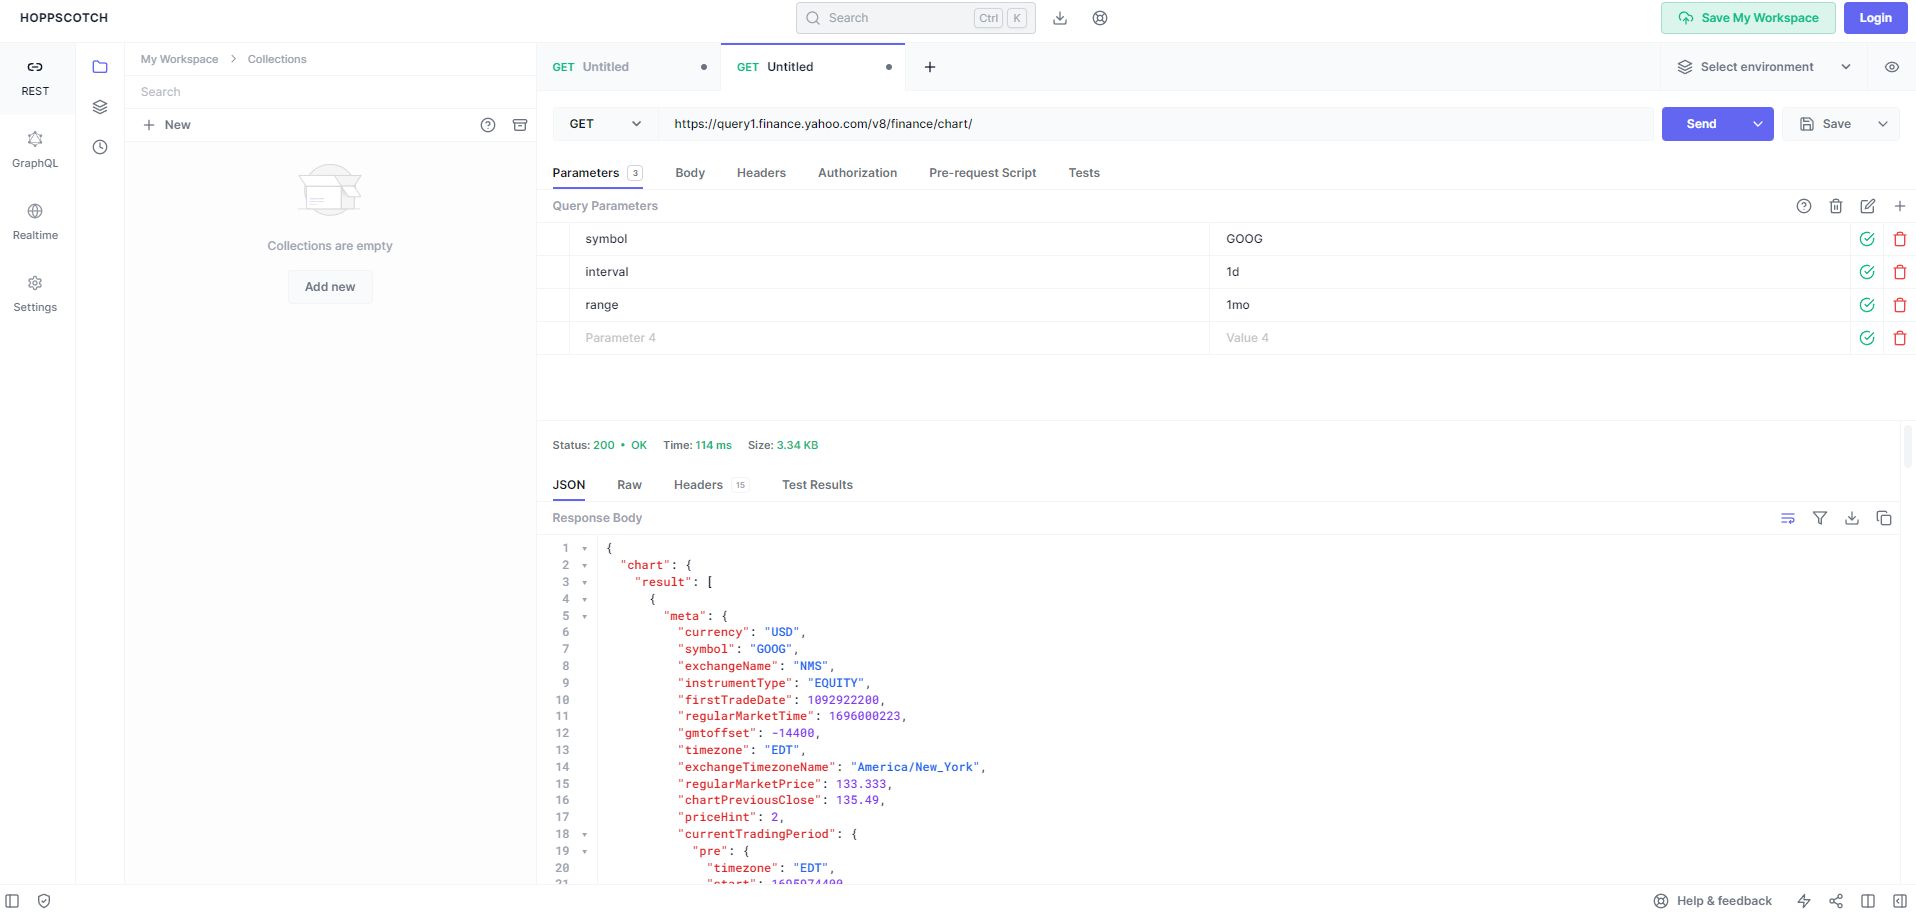
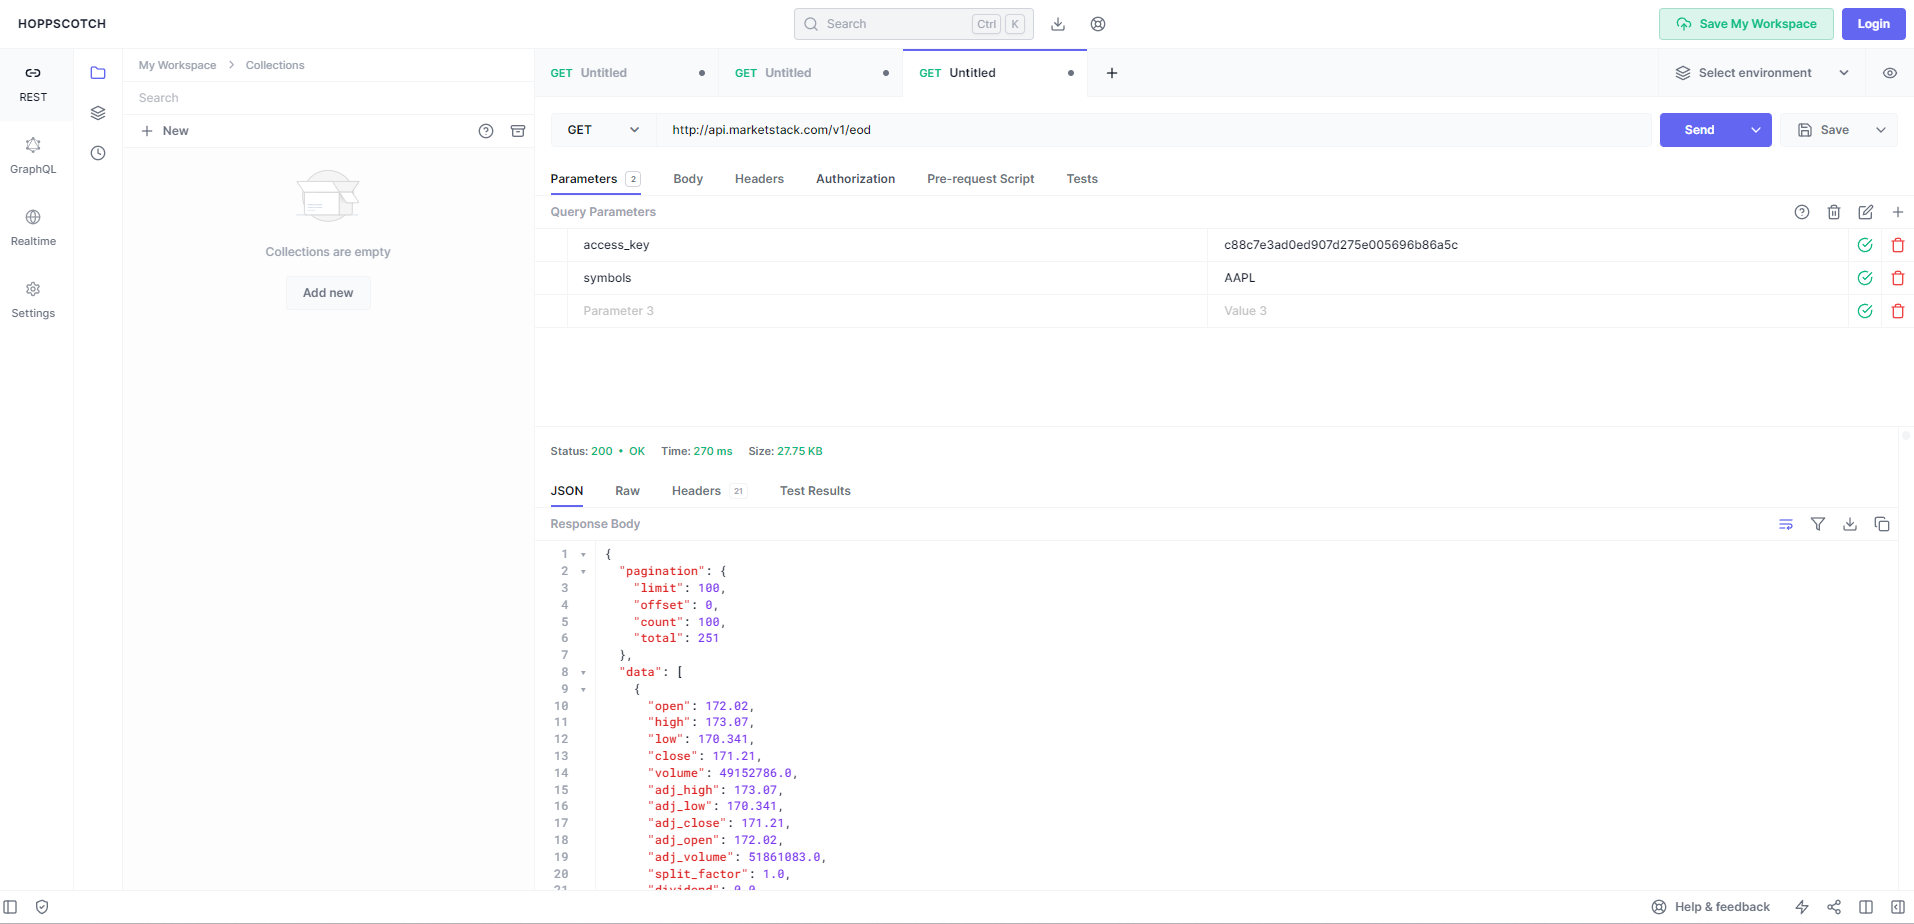
Redid the submission requirments for the new api

diff --git a/restclientexample/src/main/java/api/MarketStackAPI.java b/restclientexample/src/main/java/api/MarketStackAPI.java
@@ -1,0 +1,46 @@
+package api;
+
+import java.io.BufferedReader;
+import java.io.IOException;
+import java.io.InputStreamReader;
+import java.net.HttpURLConnection;
+import java.net.URL;
+
+public class MarketStackAPI {
+
+    public static void main(String[] args) {
+        String apiKey = System.getenv("API_KEY");
+        String symbol = "AAPL";
+
+        try {
+            URL url = new URL("http://api.marketstack.com/v1/eod" +
+                    "?access_key=" + apiKey +
+                    "&symbols=" + symbol);
+
+            HttpURLConnection connection = (HttpURLConnection) url.openConnection();
+            connection.setRequestMethod("GET");
+
+            int responseCode = connection.getResponseCode();
+
+            if (responseCode == HttpURLConnection.HTTP_OK) {
+                BufferedReader reader = new BufferedReader(new InputStreamReader(connection.getInputStream()));
+                String line;
+                StringBuilder response = new StringBuilder();
+
+                while ((line = reader.readLine()) != null) {
+                    response.append(line);
+                }
+                reader.close();
+
+                System.out.println("API Response:");
+                System.out.println(response.toString());
+            } else {
+                System.out.println("API request failed with response code: " + responseCode);
+            }
+
+            connection.disconnect();
+        } catch (IOException e) {
+            e.printStackTrace();
+        }
+    }
+}

diff --git a/restclientexample/src/main/java/api/api/MarketStackAPI.java b/restclientexample/src/main/java/api/api/MarketStackAPI.java
@@ -1,0 +1,46 @@
+package api;
+
+import java.io.BufferedReader;
+import java.io.IOException;
+import java.io.InputStreamReader;
+import java.net.HttpURLConnection;
+import java.net.URL;
+
+public class MarketStackAPI {
+
+    public static void main(String[] args) {
+        String apiKey = System.getenv("API_KEY");
+        String symbol = "AAPL";
+
+        try {
+            URL url = new URL("http://api.marketstack.com/v1/eod" +
+                    "?access_key=" + apiKey +
+                    "&symbols=" + symbol);
+
+            HttpURLConnection connection = (HttpURLConnection) url.openConnection();
+            connection.setRequestMethod("GET");
+
+            int responseCode = connection.getResponseCode();
+
+            if (responseCode == HttpURLConnection.HTTP_OK) {
+                BufferedReader reader = new BufferedReader(new InputStreamReader(connection.getInputStream()));
+                String line;
+                StringBuilder response = new StringBuilder();
+
+                while ((line = reader.readLine()) != null) {
+                    response.append(line);
+                }
+                reader.close();
+
+                System.out.println("API Response:");
+                System.out.println(response.toString());
+            } else {
+                System.out.println("API request failed with response code: " + responseCode);
+            }
+
+            connection.disconnect();
+        } catch (IOException e) {
+            e.printStackTrace();
+        }
+    }
+}
